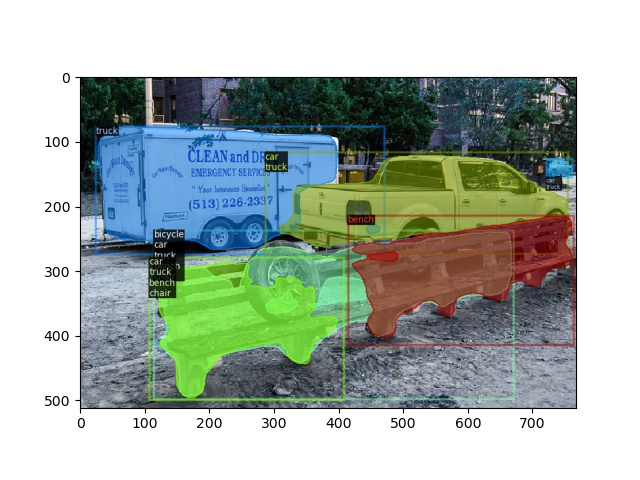
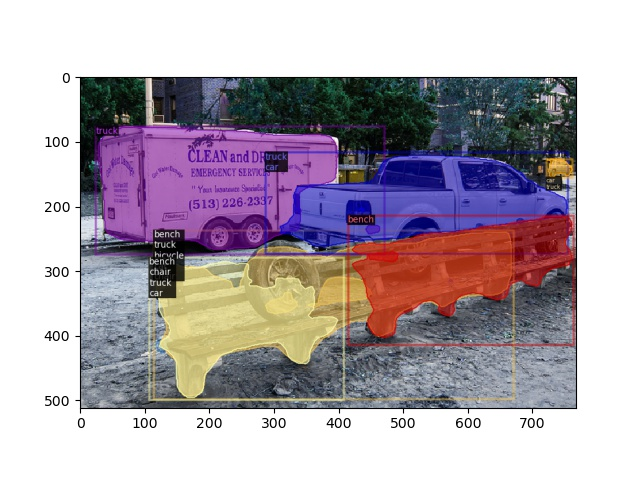
[visualization pipeline working]

Changed region(s): [[0.125, 0.25, 0.9062, 0.8438]]

diff --git a/experiments/detection/visualizer.py b/experiments/detection/visualizer.py
@@ -224,7 +224,7 @@ class _PanopticPrediction:
             if mask.sum() > 0:
                 yield mask, sinfo
 
-def _create_text_labels_sets(pred_sets, class_names):
+def _create_text_labels_sets(pred_sets, class_ordering, class_names):
     """
     Args:
         pred_sets (tensor[bool] or None):
@@ -235,13 +235,13 @@ def _create_text_labels_sets(pred_sets, class_names):
         list[str] or None
     """
     labels = []
+    set_sizes = pred_sets.to(int).sum(dim=1)
     for i in range(pred_sets.shape[0]):
         label = ''
-        indexes = pred_sets[i,:].to(int).nonzero(as_tuple=False).squeeze(dim=0)
-        for j in range(indexes.shape[0]):
-            cls_idx = indexes[j]
+        for j in range(set_sizes[i]):
+            cls_idx = class_ordering[i,j]
             label += class_names[cls_idx]
-            if j < indexes.shape[0]-1:
+            if j < set_sizes[i]-1:
                 label += '\n'
         labels = labels + [label,]
     return labels
@@ -410,7 +410,8 @@ class Visualizer:
         scores = predictions.scores if predictions.has("scores") else None
         classes = predictions.pred_classes.tolist() if predictions.has("pred_classes") else None
         pred_sets = predictions.pred_sets if predictions.has("pred_sets") else None
-        labels = _create_text_labels_sets(pred_sets, self.metadata.get("thing_classes", None))
+        class_ordering = predictions.class_ordering if predictions.has("class_ordering") else None
+        labels = _create_text_labels_sets(pred_sets, class_ordering, self.metadata.get("thing_classes", None))
         #labels = _create_text_labels(classes, scores, self.metadata.get("thing_classes", None))
         keypoints = predictions.pred_keypoints if predictions.has("pred_keypoints") else None
 

diff --git a/experiments/detection/UQHeads.py b/experiments/detection/UQHeads.py
@@ -119,6 +119,7 @@ def fast_rcnn_inference_single_image(
     sizes[sizes == 0] = 1 # Size at least 1
     # The prediction set will be a float to be compatible with the inbuilt detectron2 code.
     result.pred_sets = torch.cat([ to_set_mask(pi[i][0:sizes[i]], scores.shape[1]) for i in range(sizes.shape[0]) ], dim=0)
+    result.class_ordering = pi 
 
     return result, filter_inds[:, 0]
 
